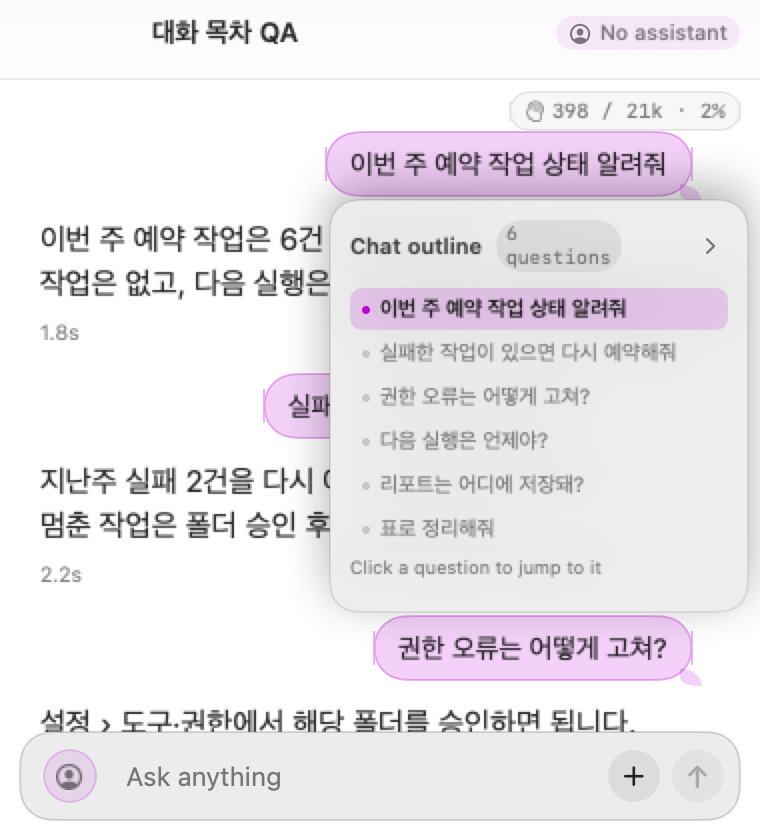
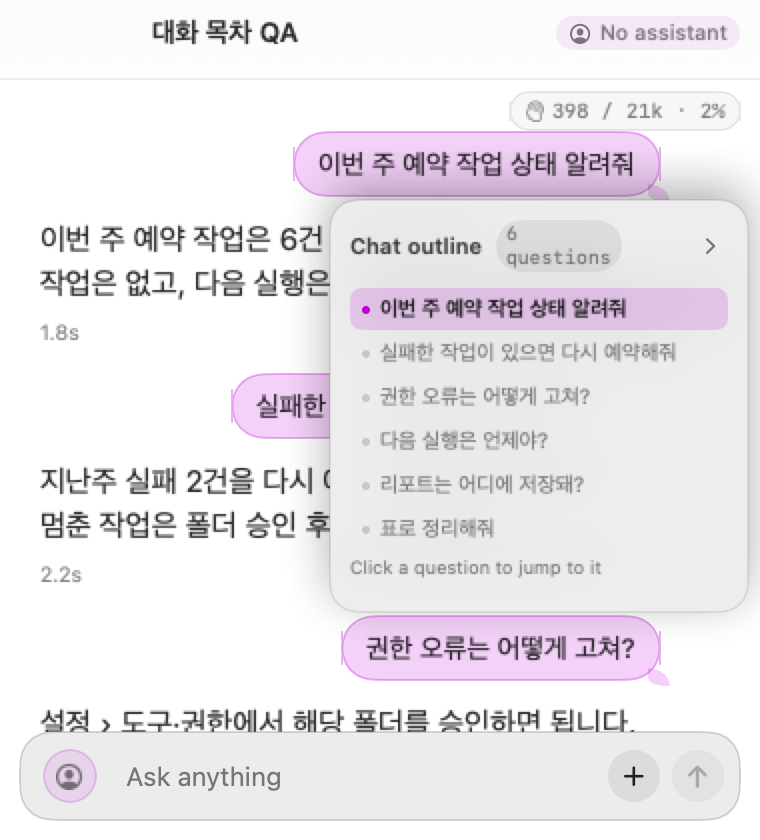
fix(macos): v0.32.1 목차 레일·질문 ⋯ 겹침 + 점프 후 스크롤 바닥 튐 (#116)
* fix(macos): v0.32.1 목차 레일·질문 ⋯ 겹침 + 점프 후 스크롤 바닥 튐

- 본문 오른쪽 여백 14pt → 30pt (레일 6+22pt+2pt), 질문 ⋯(오른쪽 끝 34pt)와 6pt 간격
- Core FollowScrollPolicy 신설 — 점프 시작 시 따라가기를 끄고 1.0초 억제,
  일시적 distance=0 이 따라가기를 되살리지 않게 한다
- focusTurn 이 늦게 도착한 이전 점프를 버리도록 focusedTurn 확인
- QA hoverTurnIndex 인자 + 점프/스크롤 회귀 테스트 8건

* docs(qa): v0.32.1 목차 레일 여백 30pt 렌더 갱신 + 질문 호버 화면

Changed region(s): [[0.4237, 0.7119, 0.9382, 0.8357], [0.3632, 0.1548, 0.9382, 0.2476], [0.3026, 0.4333, 0.4539, 0.5262]]

diff --git a/QuickTalkApp/ContentView.swift b/QuickTalkApp/ContentView.swift
@@ -120,6 +120,9 @@ struct ContentView: View {
   /// 자동으로 바닥을 따라갈지 — 사용자가 위로 올려 읽는 중에는 **끌어내리지 않는다**.
   /// (스트리밍·도구 출력이 매번 스크롤을 납치하면 위로 올려도 볼 수가 없다 — 2026-11-05 사용자 지적)
   @State private var followsBottom = true
+  /// 이 시각까지는 **프로그램 이동**(목차·검색 점프) 중이라 자동 핀을 하지 않는다.
+  /// (점프 직후 중간에서 스크롤을 내리면 바닥으로 튀던 문제 — 2026-11-06 사용자 지적)
+  @State private var suppressFollowUntil = Date.distantPast
   /// "지금 맨 아래로 붙여라" 신호 — `NSScrollView`를 직접 움직인다.
   /// SwiftUI `scrollTo(anchor:.bottom)`은 내용 높이가 늦게 확정되면 끝까지 가지 못했다.
   @State private var bottomPinToken = 0
@@ -135,6 +138,8 @@ struct ContentView: View {
   var suppressArchiveLoad = false
   /// QA 렌더 전용 — 첫 질문에 마우스를 올린 상태를 재현한다(호버 시 말풍선 폭 고정 확인).
   var hoverFirstQuestion = false
+  /// QA 렌더 전용 — n번째(0부터) 사용자 질문에 마우스를 올린 상태.
+  var hoverTurnIndex: Int? = nil
   /// QA 렌더 전용 — 사고 과정 블록을 펼친 상태로 그린다.
   var expandReasoning = false
   /// QA 렌더 전용 — 대화 목차 패널을 펼친 상태로 그린다(v0.32).
@@ -142,11 +147,13 @@ struct ContentView: View {
 
   init(initialTab: Int = 0, initialInputHeight: CGFloat = 28,
        initialArchiveQuery: String = "", suppressArchiveLoad: Bool = false,
-       hoverFirstQuestion: Bool = false, expandReasoning: Bool = false,
+       hoverFirstQuestion: Bool = false, hoverTurnIndex: Int? = nil,
+       expandReasoning: Bool = false,
        expandOutline: Bool = false) {
     self.initialTab = initialTab
     self.suppressArchiveLoad = suppressArchiveLoad
     self.hoverFirstQuestion = hoverFirstQuestion
+    self.hoverTurnIndex = hoverTurnIndex
     self.expandReasoning = expandReasoning
     self.expandOutline = expandOutline
     _tab = State(initialValue: initialTab)
@@ -178,11 +185,13 @@ struct ContentView: View {
       && ConversationOutline.shouldShow(outlineEntries)
   }
 
-  /// 펼친 패널이 본문을 덮지 않도록 오른쪽 여백을 14pt 더 둔다(행 자체의 20pt 와 합쳐 34pt).
+  /// 펼친 패널·접힌 레일이 본문 글자와 질문 `⋯` 를 가리지 않도록 오른쪽 여백을 30pt 둔다.
+  /// (레일은 오른쪽 6pt + 폭 22pt = 28pt 를 차지한다. 질문 행은 여기에 20pt 를 더 비워
+  ///  `⋯` 오른쪽 끝이 레일보다 6pt 안쪽에 오게 한다.)
   /// 목차를 켠 사용자는 질문이 3개가 되기 전에도 같은 폭을 유지해, 세 번째 질문에서
   /// 글자 폭이 갑자기 바뀌지 않게 한다.
   private var outlineInset: CGFloat {
-    store.settings.outlineDisplay.showsRail ? 14 : 0
+    store.settings.outlineDisplay.showsRail ? 30 : 0
   }
 
   /// 지금 화면 위쪽에 걸린 질문의 순번.
@@ -707,7 +716,8 @@ struct ContentView: View {
             Color.clear.frame(height: 1).id(Self.bottomID)
           }
           .padding(.leading, 20)
-          // 목차 레일이 오른쪽에 떠 있어도 글자와 겹치지 않게 14pt 더 비운다(행의 20pt 와 합 34pt).
+          // 목차 레일이 오른쪽에 떠 있어도 글자·질문 `⋯` 와 겹치지 않게 30pt 비운다
+          // (레일 6+22pt 보다 넓게 — 질문 메뉴 툴팁이 레일을 덮지 않도록).
           .padding(.trailing, outlineInset)
           .padding(.vertical, 12)
           // 토큰 칩이 위에 떠 있어도 첫 메시지를 가리지 않게 그만큼 비워 둔다(헤더 높이는 그대로).
@@ -1360,6 +1370,8 @@ struct ContentView: View {
   /// 사용자가 직접 "맨 아래로"를 눌렀거나 새 메시지를 보낸 경우 — 무조건 끝으로.
   private func jumpToBottom() {
     guard focusedTurn == nil else { return }
+    // 명시적 이동은 점프 억제를 해제한다 — 이후 스트리밍은 다시 바닥을 따라간다.
+    suppressFollowUntil = .distantPast
     followsBottom = true
     atBottom = true
     pinBottom()
@@ -1382,31 +1394,42 @@ struct ContentView: View {
   }
 
   /// 사용자가 스크롤을 **위로** 올리면 자동 따라가기를 멈춘다(내용이 스크롤을 납치하지 않게).
-  /// 바닥에 닿으면 다시 따라간다.
+  /// 바닥에 닿으면 다시 따라간다. 판정 규칙은 Core(`FollowScrollPolicy`)에 있고 여기서는 적용만 한다
+  /// — 목차 점프 직후 중간에서 스크롤을 내리면 바닥으로 튀던 문제의 회귀를 테스트로 고정한다(v0.32.1).
   private func handleScrollDistance(_ distance: CGFloat, didScrollUp: Bool) {
-    if didScrollUp { followsBottom = false }
-    let atEnd = ScrollMetrics.isAtBottom(distance: distance)
-    if atEnd != atBottom {
-      withAnimation(.easeInOut(duration: 0.12)) { atBottom = atEnd }
+    let update = FollowScrollPolicy.update(followsBottom: followsBottom,
+                                           distance: distance,
+                                           didScrollUp: didScrollUp,
+                                           now: Date(),
+                                           suppressUntil: suppressFollowUntil,
+                                           lastPinAt: lastPinAt)
+    if update.atBottom != atBottom {
+      withAnimation(.easeInOut(duration: 0.12)) { atBottom = update.atBottom }
     }
-    if atEnd {
-      followsBottom = true
-      return
-    }
-    // 내용이 늘어 바닥에서 멀어진 경우 — 붙어 있던 사용자라면 다시 끝으로 붙인다.
-    // (위로 올려 읽는 중이면 followsBottom 이 false 라 건드리지 않는다)
-    guard followsBottom, Date().timeIntervalSince(lastPinAt) > 0.25 else { return }
-    pinBottom()
+    followsBottom = update.followsBottom
+    if update.shouldPin { pinBottom() }
   }
 
-  /// 보관함 검색 결과로 연 대화 — 찾은 턴을 가운데로 스크롤하고 테두리를 3회 깜빡인다.
+  /// 보관함 검색 결과·대화 목차로 연 턴 — 찾은 턴을 가운데로 스크롤하고 테두리를 3회 깜빡인다.
   /// 탭 전환·레이아웃 확정 전에는 scrollTo가 잘리므로 몇 프레임 뒤에 다시 맞춘다.
+  ///
+  /// 점프 시작 시 자동 따라가기를 **끄고** 잠시 억제한다(v0.32.1) — 억제가 없으면
+  /// 점프로 생긴 스크롤 리포트를 "내용이 늘었다"로 오판해 곧바로 바닥으로 붙였고,
+  /// 중간에서 스크롤을 내릴 때도 맨 아래로 튀었다.
   private func focusTurn(_ req: SearchFocusRequest, proxy: ScrollViewProxy) {
     guard req.conversationID == store.conversation.id else { return }
     store.searchFocus = nil
+    let jumpState = FollowScrollPolicy.jumpStarted(now: Date())
+    followsBottom = jumpState.followsBottom
+    atBottom = jumpState.atBottom
+    suppressFollowUntil = jumpState.suppressUntil
     focusedTurn = req.turnID
     focusPulse = false
-    let jump = { proxy.scrollTo(req.turnID, anchor: .center) }
+    // 다른 항목을 곧바로 눌렀으면 늦게 도착한 이전 점프는 버린다.
+    let jump = {
+      guard focusedTurn == req.turnID else { return }
+      proxy.scrollTo(req.turnID, anchor: .center)
+    }
     jump()
     DispatchQueue.main.async { jump() }
     DispatchQueue.main.asyncAfter(deadline: .now() + 0.12) { jump() }
@@ -1468,6 +1491,11 @@ struct ContentView: View {
     if hoverFirstQuestion,
        let first = store.conversation.turns.first(where: { $0.role == .user }) {
       hoveredTurn = first.id
+    }
+    // QA 렌더 — n번째 질문에 호버한 상태(목차 레일과 `⋯` 의 간격 확인용).
+    if let index = hoverTurnIndex {
+      let questions = store.conversation.turns.filter { $0.role == .user }
+      if questions.indices.contains(index) { hoveredTurn = questions[index].id }
     }
     // QA 렌더 — 사고 과정 블록을 펼친 상태로 그린다(턴 요약 + 각 스텝 구간).
     if expandReasoning {

diff --git a/Tests/QuickTalkCoreTests/FollowScrollPolicyTests.swift b/Tests/QuickTalkCoreTests/FollowScrollPolicyTests.swift
@@ -1,0 +1,123 @@
+import XCTest
+@testable import QuickTalkCore
+
+/// v0.32.1 회귀 — 목차 바로가기 뒤 스크롤이 맨 아래로 튀던 문제.
+final class FollowScrollPolicyTests: XCTestCase {
+  private let t0 = Date(timeIntervalSince1970: 1_000)
+
+  /// 점프 직후 중간에서 스크롤을 내려도 바닥으로 붙이지 않는다.
+  func testNoPinAfterJumpWhileScrollingDown() {
+    let jump = FollowScrollPolicy.jumpStarted(now: t0)
+    XCTAssertFalse(jump.followsBottom)
+    XCTAssertFalse(jump.atBottom)
+
+    let u = FollowScrollPolicy.update(followsBottom: jump.followsBottom,
+                                      distance: 900,
+                                      didScrollUp: false,
+                                      now: t0.addingTimeInterval(0.4),
+                                      suppressUntil: jump.suppressUntil)
+    XCTAssertFalse(u.shouldPin)
+    XCTAssertFalse(u.followsBottom)
+    XCTAssertFalse(u.atBottom)
+  }
+
+  /// 점프 중 레이아웃이 확정되기 전 `distance == 0` 이 와도 따라가기를 되살리지 않는다.
+  func testTransientAtBottomDuringJumpDoesNotResumeFollowing() {
+    let jump = FollowScrollPolicy.jumpStarted(now: t0)
+
+    let transient = FollowScrollPolicy.update(followsBottom: jump.followsBottom,
+                                              distance: 0,
+                                              didScrollUp: false,
+                                              now: t0.addingTimeInterval(0.1),
+                                              suppressUntil: jump.suppressUntil)
+    XCTAssertFalse(transient.followsBottom)
+    XCTAssertFalse(transient.shouldPin)
+
+    // 그 뒤 실제 위치가 중간으로 보고돼도 여전히 따라가지 않는다.
+    let middle = FollowScrollPolicy.update(followsBottom: transient.followsBottom,
+                                           distance: 900,
+                                           didScrollUp: false,
+                                           now: t0.addingTimeInterval(0.5),
+                                           suppressUntil: jump.suppressUntil)
+    XCTAssertFalse(middle.shouldPin)
+    XCTAssertFalse(middle.followsBottom)
+  }
+
+  /// 억제 시간이 지난 뒤 사용자가 직접 바닥에 닿으면 다시 따라간다.
+  func testFollowingResumesWhenUserReachesBottomAfterJump() {
+    let jump = FollowScrollPolicy.jumpStarted(now: t0)
+
+    let atEnd = FollowScrollPolicy.update(followsBottom: false,
+                                          distance: 0,
+                                          didScrollUp: false,
+                                          now: t0.addingTimeInterval(2.0),
+                                          suppressUntil: jump.suppressUntil)
+    XCTAssertTrue(atEnd.followsBottom)
+    XCTAssertTrue(atEnd.atBottom)
+    XCTAssertFalse(atEnd.shouldPin)
+
+    // 이후 내용이 늘면 다시 바닥을 붙인다.
+    let grew = FollowScrollPolicy.update(followsBottom: atEnd.followsBottom,
+                                        distance: 120,
+                                        didScrollUp: false,
+                                        now: t0.addingTimeInterval(2.3),
+                                        suppressUntil: jump.suppressUntil,
+                                        lastPinAt: t0)
+    XCTAssertTrue(grew.shouldPin)
+  }
+
+  /// 평소 스트리밍 — 바닥을 따라가던 중 내용이 늘면 다시 붙인다.
+  func testPinWhileFollowingStreamingContent() {
+    let u = FollowScrollPolicy.update(followsBottom: true,
+                                      distance: 120,
+                                      didScrollUp: false,
+                                      now: t0,
+                                      lastPinAt: t0.addingTimeInterval(-1))
+    XCTAssertTrue(u.shouldPin)
+    XCTAssertTrue(u.followsBottom)
+    XCTAssertFalse(u.atBottom)
+  }
+
+  /// 사용자가 위로 올리면 따라가기를 끄고 붙이지 않는다.
+  func testScrollUpStopsFollowingAndDoesNotPin() {
+    let u = FollowScrollPolicy.update(followsBottom: true,
+                                      distance: 120,
+                                      didScrollUp: true,
+                                      now: t0,
+                                      lastPinAt: t0.addingTimeInterval(-1))
+    XCTAssertFalse(u.followsBottom)
+    XCTAssertFalse(u.shouldPin)
+  }
+
+  /// 재고정 간격(0.25초) 안에서는 다시 붙이지 않는다.
+  func testPinCooldown() {
+    let u = FollowScrollPolicy.update(followsBottom: true,
+                                      distance: 120,
+                                      didScrollUp: false,
+                                      now: t0,
+                                      lastPinAt: t0.addingTimeInterval(-0.1))
+    XCTAssertFalse(u.shouldPin)
+    XCTAssertTrue(u.followsBottom)
+  }
+
+  /// 위로 올린 직후 점프 억제 중이어도 따라가기는 꺼진 상태를 유지한다.
+  func testScrollUpDuringSuppressionKeepsFollowingOff() {
+    let jump = FollowScrollPolicy.jumpStarted(now: t0)
+    let u = FollowScrollPolicy.update(followsBottom: true,
+                                      distance: 300,
+                                      didScrollUp: true,
+                                      now: t0.addingTimeInterval(0.2),
+                                      suppressUntil: jump.suppressUntil)
+    XCTAssertFalse(u.followsBottom)
+    XCTAssertFalse(u.shouldPin)
+  }
+
+  /// 점프 시작 상태 — 따라가기·바닥 표시를 끄고 억제 시각을 1초 뒤로 둔다.
+  func testJumpStartedState() {
+    let jump = FollowScrollPolicy.jumpStarted(now: t0)
+    XCTAssertFalse(jump.followsBottom)
+    XCTAssertFalse(jump.atBottom)
+    XCTAssertEqual(jump.suppressUntil, t0.addingTimeInterval(FollowScrollPolicy.suppression))
+    XCTAssertEqual(FollowScrollPolicy.suppression, 1.0)
+  }
+}

diff --git a/Sources/QuickTalkCore/FollowScrollPolicy.swift b/Sources/QuickTalkCore/FollowScrollPolicy.swift
@@ -1,0 +1,80 @@
+import Foundation
+
+/// 자동 스크롤(바닥 따라가기) 판정 — AppKit 값을 순수 함수로 분리해 테스트한다.
+///
+/// 배경(v0.32.1, 2026-11-06 사용자 지적): 대화 목차에서 질문으로 **바로가기**한 뒤
+/// 스크롤을 내리면 가끔 맨 아래로 튀었다. 원인은 두 가지가 겹친 것 —
+/// 1) 점프 직후 `followsBottom` 이 true 로 남아, 중간에서 스크롤을 내리면 "내용이 늘었다"고
+///    오판해 `pinBottom()` 을 호출했다.
+/// 2) 점프 중 레이아웃이 확정되기 전 `distance` 가 잠깐 0 으로 보고되면 `atBottom` 이 true 가 되어
+///    따라가기가 다시 켜졌다.
+///
+/// 그래서 **프로그램이 이동을 시작한 뒤 짧은 구간(`suppression`)** 동안은
+/// 자동 핀도, 따라가기 재개도 하지 않는다. 사용자가 직접 바닥에 닿았을 때만 다시 켠다.
+public enum FollowScrollPolicy {
+  /// 점프 직후 자동 핀을 멈추는 시간(초). `scrollTo` 재시도(0.28초)와
+  /// 레이아웃 확정(수 프레임)을 모두 덮는다.
+  public static let suppression: TimeInterval = 1.0
+
+  /// 거리 기반 재고정 최소 간격(초) — 스크롤 알림은 초당 수십 번 온다.
+  public static let pinCooldown: TimeInterval = 0.25
+
+  /// 한 번의 스크롤 리포트를 반영한 결과.
+  public struct Update: Equatable {
+    /// 앞으로 내용이 늘 때 바닥을 따라갈지.
+    public let followsBottom: Bool
+    /// 맨 아래에 있는지(우하단 "맨 아래로" 버튼 표시용).
+    public let atBottom: Bool
+    /// 지금 `pinBottom()` 을 보내야 하는지.
+    public let shouldPin: Bool
+
+    public init(followsBottom: Bool, atBottom: Bool, shouldPin: Bool) {
+      self.followsBottom = followsBottom
+      self.atBottom = atBottom
+      self.shouldPin = shouldPin
+    }
+  }
+
+  /// 스크롤 리포트 하나를 반영한다.
+  ///
+  /// - Parameters:
+  ///   - followsBottom: 직전까지 바닥을 따라가고 있었는지.
+  ///   - distance: 문서 끝까지 남은 거리(pt).
+  ///   - didScrollUp: 이번 리포트에서 사용자가 위로 올렸는지.
+  ///   - now: 현재 시각.
+  ///   - suppressUntil: 이 시각까지는 프로그램 이동 중이라 자동 핀·재개를 하지 않는다.
+  ///   - lastPinAt: 마지막으로 바닥에 붙인 시각.
+  public static func update(followsBottom: Bool,
+                            distance: CGFloat,
+                            didScrollUp: Bool,
+                            now: Date,
+                            suppressUntil: Date = .distantPast,
+                            lastPinAt: Date = .distantPast) -> Update {
+    let atEnd = ScrollMetrics.isAtBottom(distance: distance)
+    var follows = followsBottom
+    // 위로 올렸으면 즉시 따라가기를 멈춘다(읽는 중 콘텐츠가 스크롤을 납치하지 않게).
+    if didScrollUp { follows = false }
+
+    // 점프 직후 — 레이아웃이 확정되기 전의 잘못된 `atBottom` 으로 따라가기를 되살리지 않는다.
+    if now < suppressUntil {
+      return Update(followsBottom: follows, atBottom: atEnd, shouldPin: false)
+    }
+
+    if atEnd {
+      follows = true
+      return Update(followsBottom: follows, atBottom: true, shouldPin: false)
+    }
+
+    let cooledDown = now.timeIntervalSince(lastPinAt) > pinCooldown
+    return Update(followsBottom: follows,
+                  atBottom: false,
+                  shouldPin: follows && cooledDown)
+  }
+
+  /// 프로그램 이동(목차·검색 결과 점프)을 시작할 때의 상태 —
+  /// 따라가기를 끄고 잠시 자동 핀을 막는다.
+  public static func jumpStarted(now: Date,
+                                 suppressFor duration: TimeInterval = suppression) -> (followsBottom: Bool, atBottom: Bool, suppressUntil: Date) {
+    (false, false, now.addingTimeInterval(duration))
+  }
+}

diff --git a/QuickTalkApp/AppDelegate+RenderHarness.swift b/QuickTalkApp/AppDelegate+RenderHarness.swift
@@ -812,6 +812,11 @@ extension AppDelegate {
         self.renderPNG(AnyView(ContentView(expandOutline: true).environmentObject(self.store)),
                        size: NSSize(width: 380, height: 420),
                        to: "\(dir)/live-outline-narrow-\(suffix).png")
+        // 사용자 지적(2026-11-06) — 질문 `⋯` 툴팁이 목차 레일을 덮는지.
+        // 두 번째 질문(세로 중앙 부근)에 호버한 상태로 그려 레일과의 간격을 확인한다.
+        self.renderPNG(AnyView(ContentView(hoverTurnIndex: 1).environmentObject(self.store)),
+                       size: NSSize(width: 400, height: 560),
+                       to: "\(dir)/live-outline-hover-\(suffix).png")
         self.renderChatBottomPNG(AnyView(ContentView().environmentObject(self.store)),
                                  size: NSSize(width: 400, height: 560),
                                  to: "\(dir)/live-followups-\(suffix).png")
